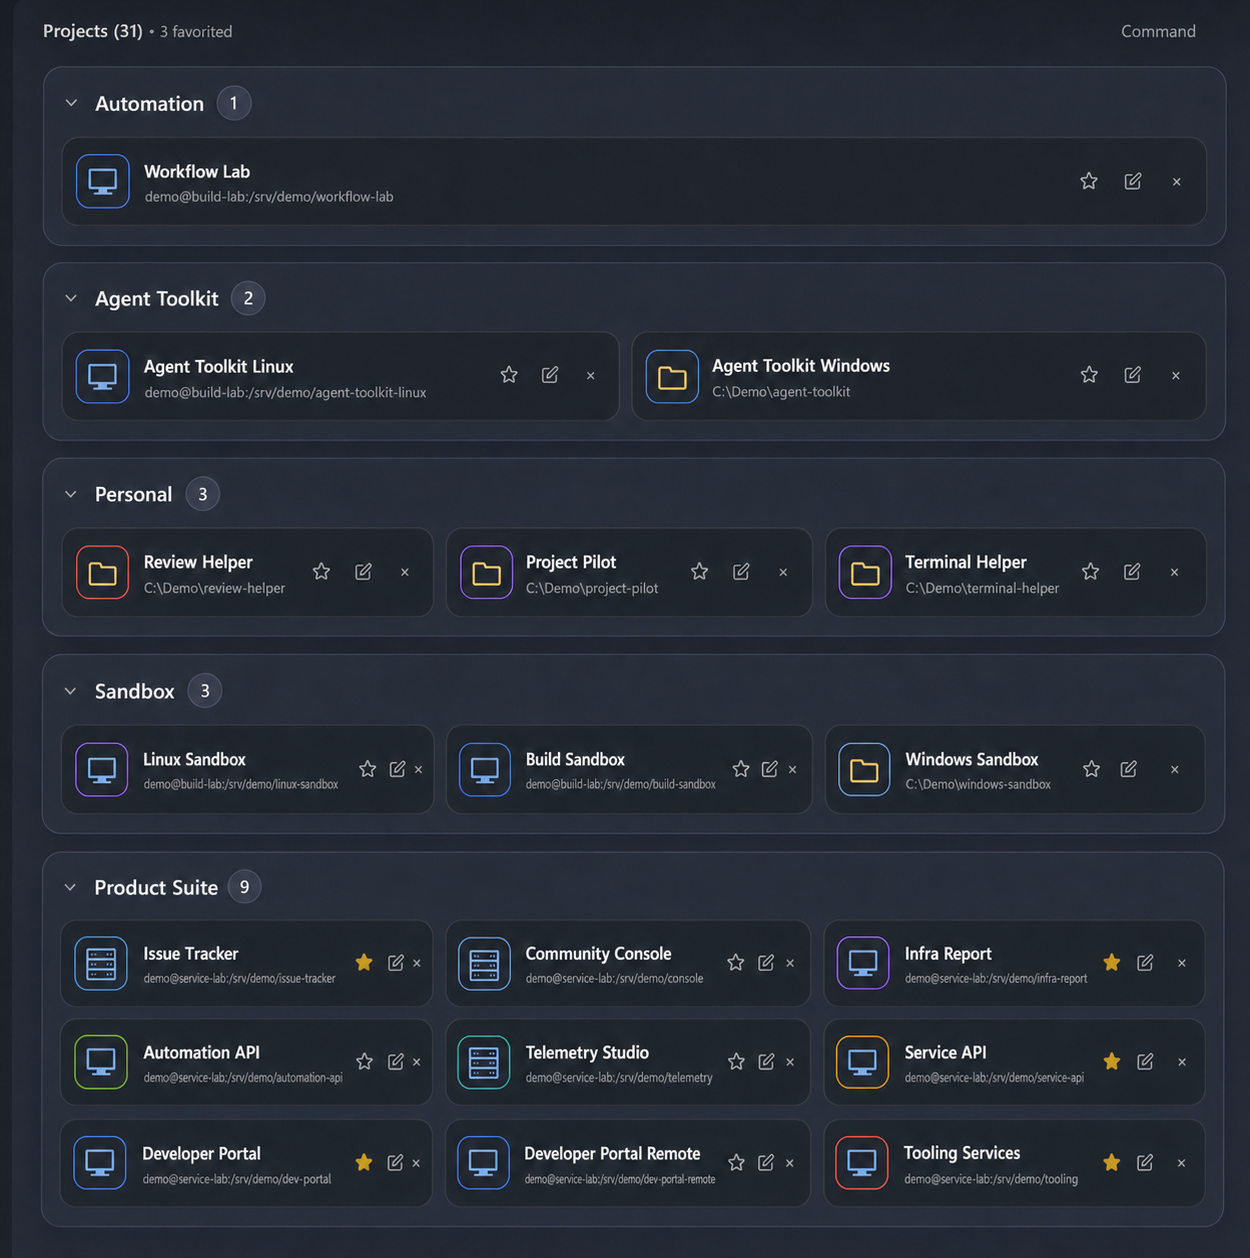
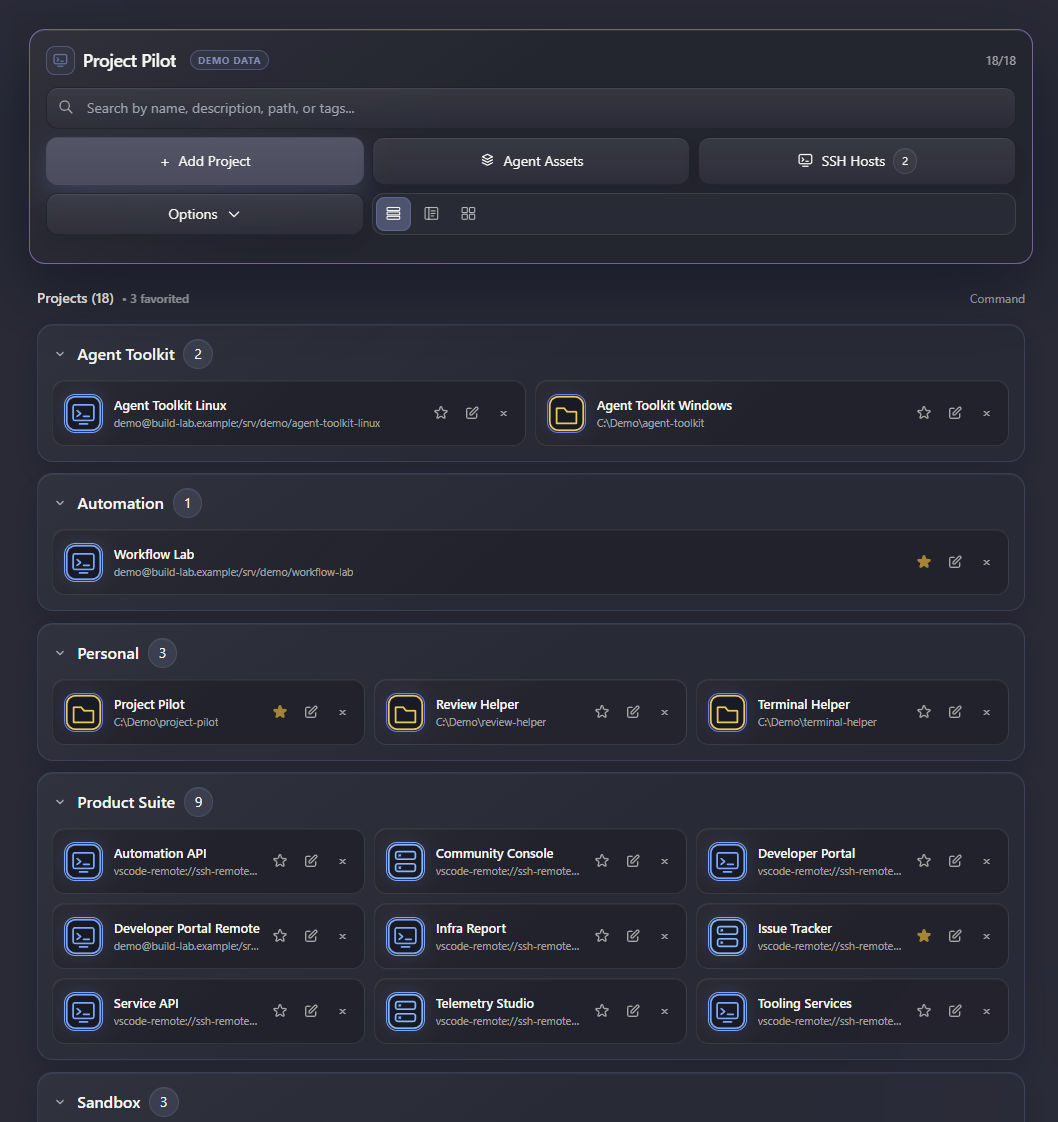
docs: use built-in demo mode screenshots

diff --git a/README.md b/README.md
@@ -123,11 +123,19 @@ Demo mode is read-only and in-memory. Project edits, SSH operations, scans, file
 
 ## Screenshots
 
-The checked-in screenshots were reconstructed from the product UI with fictional project names, hosts, users, and paths.
+The current screenshots were captured directly from Project Pilot's built-in Screenshot Demo Mode. All project names, Hosts, users, paths, Skills, MCP servers, and settings shown below are fictional.
 
 ### Command layout
 
 ![Project Pilot Command layout](media/demo/demo-manager-command-4.png)
+
+### Agent Assets: MCP details
+
+![Project Pilot Agent Assets MCP details](media/demo/demo-agent-assets-mcp-4.png)
+
+### SSH Host management
+
+![Project Pilot SSH Hosts](media/demo/demo-ssh-hosts-4.png)
 
 ### Add or edit a project
 